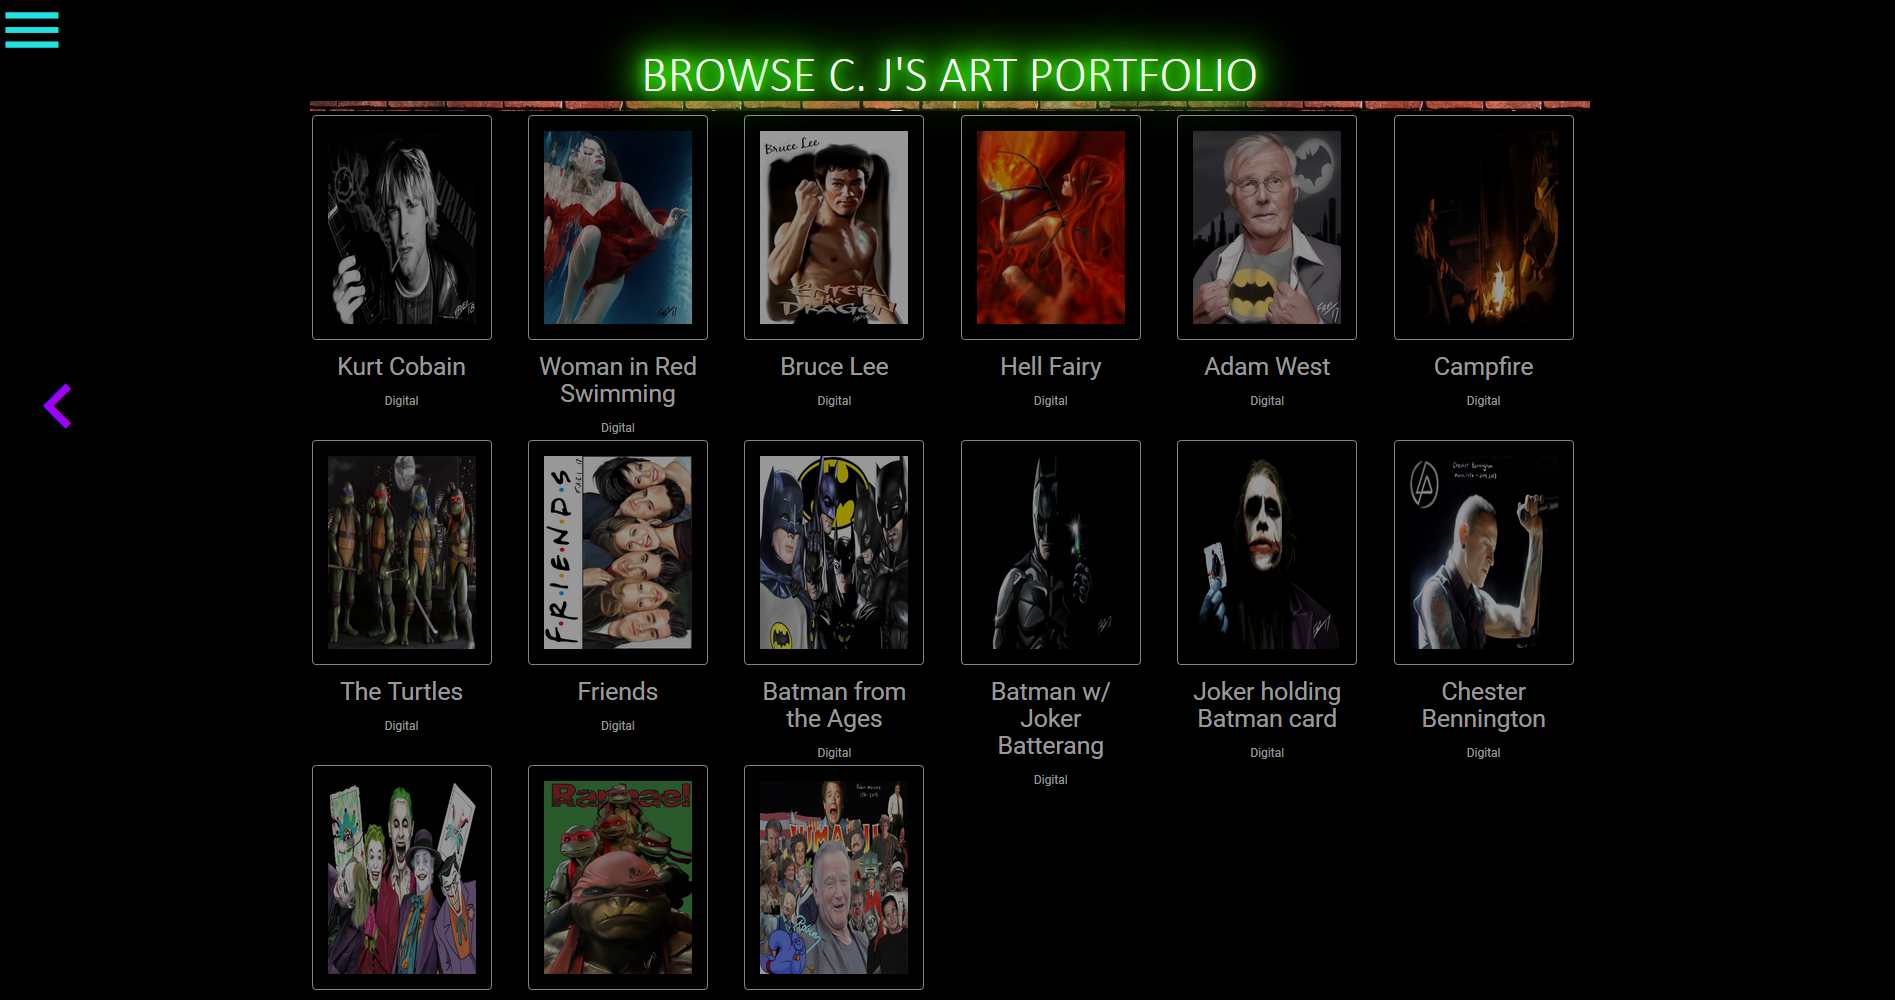
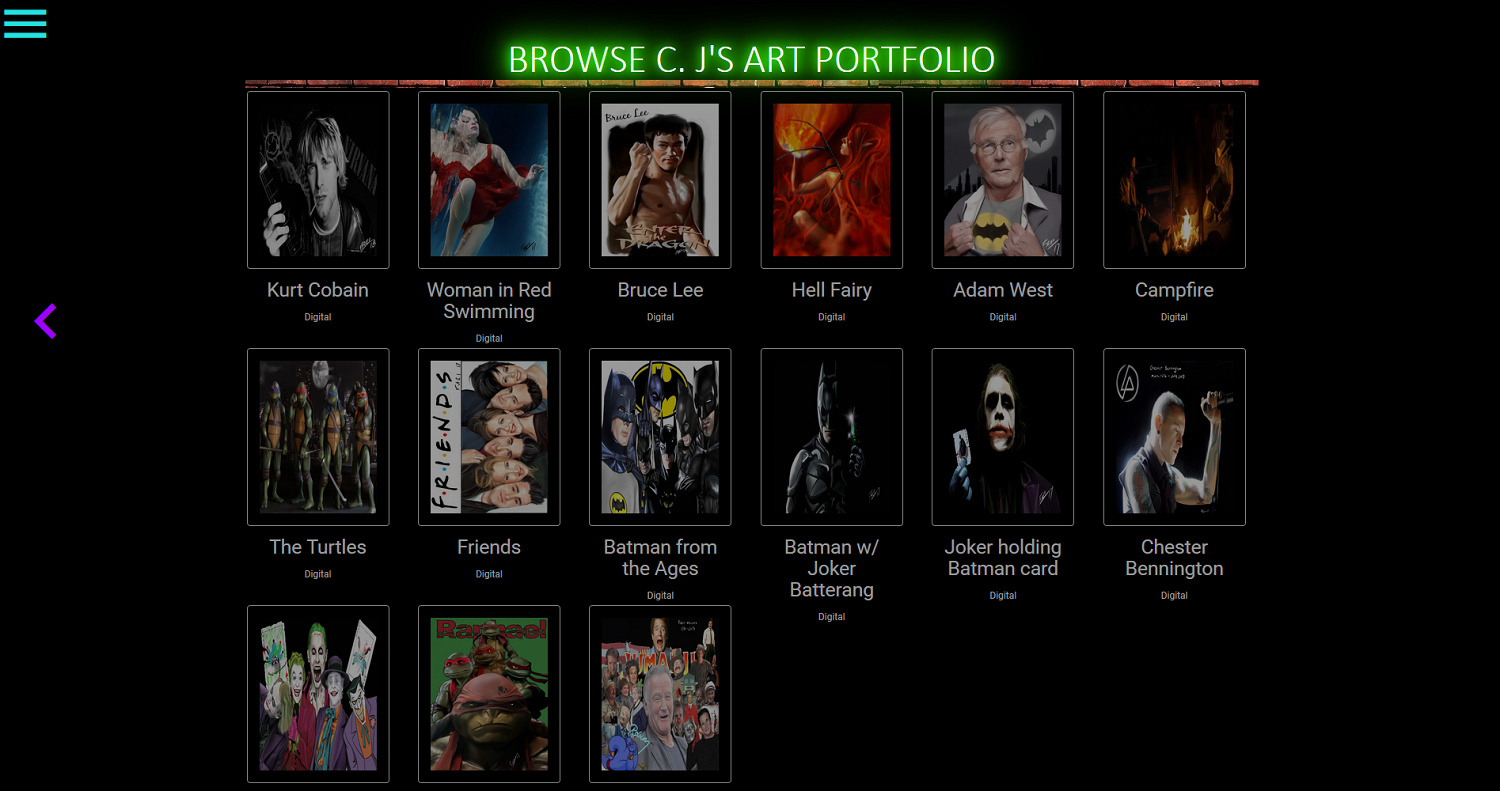
description displayed on hover

Changed region(s): [[0.46, 0.0607, 0.644, 0.091], [0.3373, 0.0607, 0.4293, 0.091], [0.3067, 0.4248, 0.3373, 0.4551]]

diff --git a/assets/javascript.js b/assets/javascript.js
@@ -5,7 +5,8 @@ let projects = [
         state: true,
         technologies: ['./assets/images/materialize-icon.png', './assets/images/react-icon.png', './assets/images/node-icon.png', './assets/images/express-icon.png', './assets/images/mongo-icon.png', './assets/images/passport-icon.png', './assets/images/redux-icon.png'],
         url: 'http://reinvent-io.herokuapp.com/',
-        card_image_link: 'assets/images/reinvent-cap.png'
+        card_image_link: 'assets/images/reinvent-cap.png',
+        description: 'Re:invent seeks to bring ideas from the ground up by giving an open platform for idea discussion and maturation. Not only does it give employees a voice, but it gives employers the tools with which to hear that voice.'
     },
     {
         name: 'Gigify',
@@ -13,34 +14,39 @@ let projects = [
         technologies: ['./assets/images/bulma-icon.png', './assets/images/html-icon.png', './assets/images/jquery-icon.png', './assets/images/js-icon.png', './assets/images/firebase-icon.png'],
         url: 'https://tzlomke.github.io/gigify/',
         card_image_link: 'assets/images/gigify-cap.png',
+        description: 'Gigify seeks to aid users in finding touring dates for their favorite bands by using Spotify\'s "affinity data". "Affinity data" is then given to Bandsintown to find live shows.'
     },
     {
         name: 'C.J. Frei Art Portfolio',
         state: false,
         technologies: ['./assets/images/materialize-icon.png', './assets/images/html-icon.png', './assets/images/jquery-icon.png', './assets/images/node-icon.png', './assets/images/sequelize-icon.png', './assets/images/express-icon.png', './assets/images/firebase-icon.png', './assets/images/mysql-icon.png'],
         url: 'https://thawing-ravine-93395.herokuapp.com/',
-        card_image_link: 'assets/images/art-port-cap.PNG'
+        card_image_link: 'assets/images/art-port-cap.PNG',
+        description: 'Visual artist C.J. Frei required a streamlined protfolio for his digital art. The Art Portfolio provided him just that.'
     },
     {
         name: 'FRND-FNDR',
         state: false,
         technologies: ['./assets/images/css-icon.png', './assets/images/html-icon.png', './assets/images/js-icon.png', './assets/images/node-icon.png', './assets/images/express-icon.png'],
         url: 'https://intense-inlet-81081.herokuapp.com/',
-        card_image_link: 'assets/images/frnd-fndr-cap.PNG'
+        card_image_link: 'assets/images/frnd-fndr-cap.PNG',
+        description: 'The modern life can make it difficult to find friends. Frnd-Fndr is here to help through its matching survey. Although, admittedly, non of these friends actually exist.'
     },
     {
         name: 'Bamazon',
         state: false,
         technologies: ['./assets/images/node-icon.png', './assets/images/mysql-icon.png'],
         url: 'https://github.com/BrantKeener/bamazon/blob/master/README.md',
-        card_image_link: 'assets/images/bamazon-cap.PNG'
+        card_image_link: 'assets/images/bamazon-cap.PNG',
+        description: 'There aren\'t enough CLI marketplaces in the world. Bamazon is here to meet all your CLI marketplace needs.'
     },
     {
         name: 'Burger Sequelized',
         state: false,
         technologies: ['./assets/images/css-icon.png', './assets/images/handlebars-icon.png', './assets/images/js-icon.png', './assets/images/mysql-icon.png', './assets/images/express-icon.png', './assets/images/sequelize-icon.png'],
         url: 'https://damp-escarpment-30359.herokuapp.com/',
-        card_image_link: 'assets/images/burger-seq-cap.PNG'
+        card_image_link: 'assets/images/burger-seq-cap.PNG',
+        description: 'After a hard day surfing the web, enter the name of a burger, and virtually eat it. See which burgers have been eaten by you or others.'
     }
 ];
 
@@ -56,6 +62,17 @@ document.addEventListener('DOMContentLoaded', function() {
         cards.forEach((card) => {
             card.classList.add('flip-to-back');
         });
+    };
+    
+    const descCardBuild = (proj) => {
+        const descDiv = document.getElementById('desc-div');
+        while(descDiv.firstChild) {
+            descDiv.removeChild(descDiv.firstChild);
+        }
+        const descPara = document.createElement('p');
+        descPara.classList.add('white-text');
+        descPara.textContent = proj.description;
+        descDiv.appendChild(descPara);
     };
 
     const techDeckBuild = () => {
@@ -83,6 +100,7 @@ document.addEventListener('DOMContentLoaded', function() {
             flipCard.appendChild(flipCardInner);
             deckLane.appendChild(flipCard);
         });
+        descCardBuild(currentProj);
         setTimeout(flipTechCards, 1500);
     };
 
@@ -91,7 +109,7 @@ document.addEventListener('DOMContentLoaded', function() {
         while(techArea.firstChild) {
             techArea.removeChild(techArea.firstChild);
         };
-    }
+    };
 
     (cardDeckBuild = () => {
         const cardBin = document.getElementById('card_bin');
@@ -178,5 +196,17 @@ document.addEventListener('DOMContentLoaded', function() {
             moveCards('left');
             break;
         };
+    });
+
+    // Event handler for mouseenter
+    document.getElementById('card_bin').addEventListener('mouseenter', () => {
+        let descDiv = document.getElementById('desc-div');
+        descDiv.style.opacity = 1;
+    });
+
+    // Event handler for mouseleave
+    document.getElementById('card_bin').addEventListener('mouseleave', () => {
+        let descDiv = document.getElementById('desc-div');
+        descDiv.style.opacity = 0;
     });
 });

diff --git a/index.html b/index.html
@@ -80,9 +80,10 @@
     <!-- The scrollable portfolio area -->
     <section id="portfolio_card">
         <section id="card_bin_holder">
-            <button class="port-button" id="move-left" title="Move Cards Left"><i id="left-arrow" class="arrow fas fa-angle-double-left fa-4x"></i></button>
-            <section id="card_bin" class="shadow_it"></section>
-            <button class="port-button" id="move-right" title="Move Cards Right"><i id="right-arrow" class="arrow icon-9x fas fa-angle-double-right fa-4x"></i></button>
+          <button class="port-button" id="move-left" title="Move Cards Left"><i id="left-arrow" class="arrow fas fa-angle-double-left fa-4x"></i></button>
+          <section id="card_bin" class="shadow_it"></section>
+          <button class="port-button" id="move-right" title="Move Cards Right"><i id="right-arrow" class="arrow icon-9x fas fa-angle-double-right fa-4x"></i></button>
+          <section id="desc-div"></section>
         </section>
     </section>
   </section>

diff --git a/assets/redostyles.css b/assets/redostyles.css
@@ -95,6 +95,10 @@ h3 {
   max-height: auto;
 }
 
+/* .cards:hover #desc-div {
+  opacity: 1;
+} */
+
 .contact-blurb {
   text-align: center;
 }
@@ -190,6 +194,18 @@ h3 {
 #card_bin_holder {
   display: flex;
   justify-content: center;
+  position: relative;
+}
+
+#desc-div {
+  background-color: #5e6572;
+  font-size: 2rem;
+  max-width: 1125px;
+  opacity: 0;
+  padding: 0% 2%;
+  position: absolute;
+  top: 50%;
+  transition: opacity 0.5s ease-in-out;
 }
 
 #nav-list {
